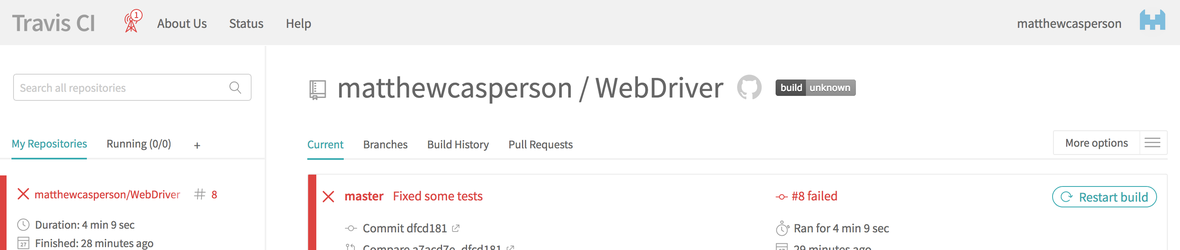
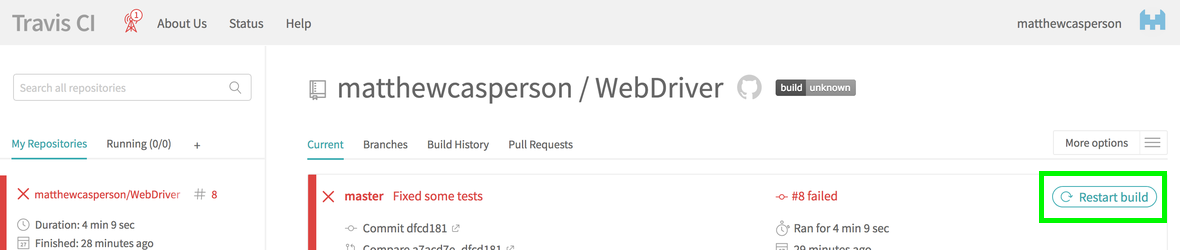
Cleaned up post 21

Changed region(s): [[0.8542, 0.672, 1.0, 0.896]]

diff --git a/blog/2018-10/selenium/21-travis-ci/travis-ci.md b/blog/2018-10/selenium/21-travis-ci/travis-ci.md
@@ -11,7 +11,7 @@ tags:
 
 Now that we have our code in a public GitHub repository, we can link it with Travis CI to allow check-ins to trigger the building and testing of our code.
 
-Start by opening <https://travis-ci.com/> and clicking the `Sign in with GitHub` button.
+Start by opening [https://travis-ci.com/](https://travis-ci.com/) and clicking the `Sign in with GitHub` button.
 
 ![](image1.png "width=500")
 
@@ -46,9 +46,10 @@ The `.travis.yml` file is a configuration file that Travis CI looks for in any r
 
 Travis CI performs the builds on either a Linux or MacOS instance. We'll use Linux to do the builds, as Linux has a number useful tools we can take advantage of for our tests.
 
+:::hint
 Windows support is coming, but not available yet. See
-<https://github.com/travis-ci/travis-ci/issues/2104> for more
-information on Windows support in Travis CI.
+[https://github.com/travis-ci/travis-ci/issues/2104](https://github.com/travis-ci/travis-ci/issues/2104) for more information on Windows support in Travis CI.
+:::
 
 Let's take a look at the complete `.travis.yml` file.
 
@@ -77,7 +78,7 @@ before_install:
 - sudo cp geckodriver /usr/bin
 ```
 
-Now lets break this file down.
+Now let's break this file down.
 
 The `sudo` option is used to indicate that the build should be done in an environment where the `sudo` command can be run or not. By setting this option to `required`, we have indicated that we need to have the ability to run `sudo` command, which means that Travis CI will run this build inside a virtual machine. If we had set this option to `false`, Travis CI would have created a container to run the build.
 
@@ -102,7 +103,7 @@ language: java
 The `jdk` option configures the JDK that is used to build the code. You have the option of using OpenJDK, which is the open source implementation of Java, or Oracle JDK, which is the Java distribution provided by Oracle. Either option is fine for our code, but we will go with the Oracle JDK.
 
 :::hint
-The issue at <https://github.com/travis-ci/travis-ci/issues/9368> is
+The issue at [https://github.com/travis-ci/travis-ci/issues/9368](https://github.com/travis-ci/travis-ci/issues/9368) is
 tracking the addition of new versions of Java in Travis CI.
 :::
 
@@ -140,13 +141,15 @@ When running Firefox from a Travis CI environment, a number of warnings like `(f
 
 The next two commands configure and start Xvfb.
 
-In previous lectures we talked about how some systems are headless, which simply means that they do not have a monitor attached to them. The build environments used by Travis CI are an example of headless environments.
+In previous posts we talked about how some systems are headless, which simply means that they do not have a monitor attached to them. The build environments used by Travis CI are an example of headless environments.
 
 However there are situations, like when running automated tests against web browsers, when it is useful to have an environment that can run desktop applications, even without a monitor. Xvfb, which is short for X Virtual Frame Buffer, allows such desktop applications to run in headless environments. Xvfb creates a virtual monitor in memory, and desktop applications "draw" themselves to this virtual monitor.
 
-By using Xvfb we can test browsers that don't have native support for running in headless environments, or run older versions of browsers like Chrome and Firefox that only recently gained native headless support.
-
+:::hint
 The X in Xvfb comes from the name X Window System, which is the windowing system used by the versions of Linux that can be run in Travis CI.
+:::
+
+By using Xvfb we can test browsers that don't have native support for running in headless environments, or run older versions of browsers like Chrome and Firefox that only recently gained native headless support.
 
 Exporting the `DISPLAY` environment variable configures applications to draw themselves to screen `99`, which is the screen that Xvfb provides by default.
 
@@ -196,7 +199,7 @@ We do the same for the Firefox binary driver.
 - sudo cp geckodriver /usr/bin
 ```
 
-To create the `.travis.yml` file, right click on the project root folder and select New → File.
+To create the `.travis.yml` file, right click on the project root folder and select `New` → `File`.
 
 ![](image8.png "width=500")
 
@@ -267,7 +270,7 @@ Under the Environment Variables add values for `BROWSERSTACK_USERNAME` and `BROW
 
 ![](image15.png "width=500")
 
-Click the build in the left hand menu, and then click Restart build. This will rebuild the code, but this time with the new environment variables.
+Click the build in the left hand menu, and then click `Restart build`. This will rebuild the code, but this time with the new environment variables.
 
 ![](image16.png "width=500")
 
